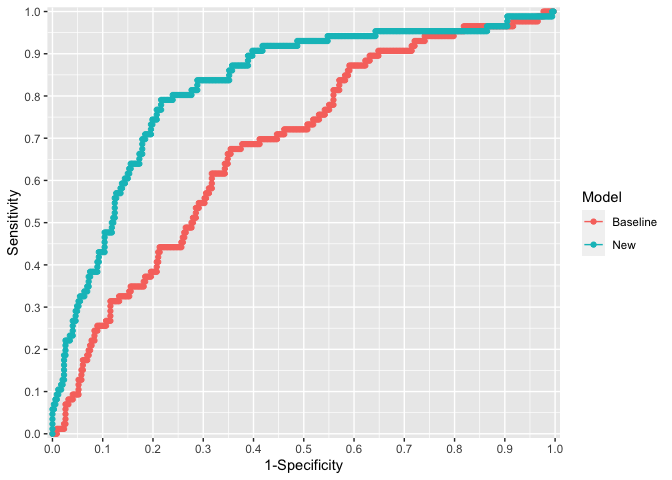
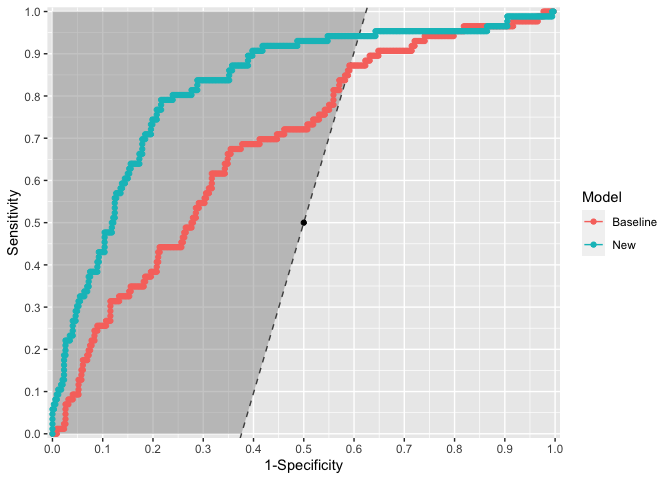
Version 1.1 update

diff --git a/README.md b/README.md
@@ -1,5 +1,5 @@
 John W Pickering
-7 March 2023
+19 April 2023
 
 <!-- README.md is generated from README.Rmd. Please edit that file -->
 
@@ -56,11 +56,18 @@ summary metrics. CI.classNRI also produces confusion matrices for those
 with and without the event of interest (separately). Bootstrapping is
 used to determine confidence intervals.
 
-Version 1.10 (current):  
+Version 1.10 :  
 \* addition of ROC plot. \* calibration plot now uses (best practice)
 continuous curves (the old format is now “ggcalibrate_original()”).  
 \* addition of precision recall curves. \* all plots can be for one or
 two models.
+
+Version 1.11 (current):  
+\* made NRI metrics for models optional (use NRI_return = TRUE) to get
+them. \* changed behaviour to that “x2 = NULL” is possible for
+CI.raplot. It has the effect of creating a model where every probability
+is 0.5.  
+\* bug fix.
 
 ## Example 1
 
@@ -68,12 +75,19 @@ This is a basic example for assessing the difference between two
 logistic regression models:
 
 ``` r
+library(dplyr)
 library(rap)
 ## basic example code
 
-baseline_risk <- data_risk$baseline    # or the baseline glm model itself
-new_risk <- data_risk$new              # or the new glm model itself
-outcome <- data_risk$outcome
+#### First make sure that data used has no missing values
+df <- data_risk %>% 
+  filter(!is.na(baseline))%>% 
+  filter(!is.na(new))%>% 
+  filter(!is.na(outcome))
+
+baseline_risk <- df$baseline    # or the baseline glm model itself
+new_risk <- df$new              # or the new glm model itself
+outcome <- df$outcome
 
 assessment <- CI.raplot(x1 = baseline_risk, x2 = new_risk, y = outcome,
                         n.boot = 20, dp = 2) # Note the default is 1000 bootstraps (n.boot = 1000).  This can take quite some time to run, so when testing I use a smaller number of bootstraps.  
@@ -99,24 +113,6 @@ assessment <- CI.raplot(x1 = baseline_risk, x2 = new_risk, y = outcome,
 #> 
 #> $Prevalence
 #> [1] 0.1986143
-#> 
-#> $NRI_up_event
-#> [1] 20
-#> 
-#> $NRI_up_nonevent
-#> [1] 19
-#> 
-#> $NRI_down_event
-#> [1] 13
-#> 
-#> $NRI_down_nonevent
-#> [1] 79
-#> 
-#> $NRI_event
-#> [1] 0.08139535
-#> 
-#> $NRI_nonevent
-#> [1] 0.1729107
 #> 
 #> $IDI_event
 #> [1] 0.1363479
@@ -156,20 +152,25 @@ assessment <- CI.raplot(x1 = baseline_risk, x2 = new_risk, y = outcome,
 
 ## bootstrap derived metrics with confidence intervals  
 (assessment$Summary_metrics)
-#> # A tibble: 22 × 2
-#>    metric            statistics                  
-#>    <chr>             <chr>                       
-#>  1 n                 432 (CI: 427.9 to 440.52)   
-#>  2 n_event           88.5 (CI: 71.22 to 97.57)   
-#>  3 n_non_event       345.5 (CI: 333.42 to 361.15)
-#>  4 Prevalence        0.2 (CI: 0.16 to 0.23)      
-#>  5 NRI_up_event      19 (CI: 10.8 to 30.72)      
-#>  6 NRI_up_nonevent   19.5 (CI: 11.95 to 27.57)   
-#>  7 NRI_down_event    11 (CI: 6.48 to 18.1)       
-#>  8 NRI_down_nonevent 69.5 (CI: 51.9 to 101.07)   
-#>  9 NRI_event         0.09 (CI: 0 to 0.23)        
-#> 10 NRI_nonevent      0.15 (CI: 0.08 to 0.22)     
-#> # … with 12 more rows
+#> # A tibble: 16 × 2
+#>    metric         statistics                
+#>    <chr>          <chr>                     
+#>  1 n              433 (CI: 433 to 433)      
+#>  2 n_event        85 (CI: 72.38 to 104.62)  
+#>  3 n_non_event    348 (CI: 328.38 to 360.62)
+#>  4 Prevalence     0.2 (CI: 0.17 to 0.24)    
+#>  5 IDI_event      0.14 (CI: 0.11 to 0.18)   
+#>  6 IDI_nonevent   0.03 (CI: 0.02 to 0.05)   
+#>  7 IP_baseline    0.19 (CI: 0.18 to 0.2)    
+#>  8 IS_baseline    0.25 (CI: 0.24 to 0.27)   
+#>  9 IP_new         0.15 (CI: 0.13 to 0.17)   
+#> 10 IS_new         0.39 (CI: 0.36 to 0.44)   
+#> 11 Brier_baseline 0.15 (CI: 0.13 to 0.18)   
+#> 12 Brier_new      0.13 (CI: 0.1 to 0.16)    
+#> 13 Brier_skill    16.64 (CI: 9.98 to 26.78) 
+#> 14 AUC_baseline   0.68 (CI: 0.62 to 0.72)   
+#> 15 AUC_new        0.82 (CI: 0.76 to 0.86)   
+#> 16 AUC_difference 0.14 (CI: 0.1 to 0.2)
 ```
 
 ## Graphical assessments
@@ -195,6 +196,15 @@ ggcalibrate(x1 = baseline_risk, x2 = new_risk, y = outcome)
 
 <img src="man/figures/README-ggcalibrate-1.png" width="100%" />
 
+### The original calibration curve
+
+``` r
+ggcalibrate_original(x1 = baseline_risk, x2 = new_risk, y = outcome,  cut_type = "interval")
+#> $g
+```
+
+<img src="man/figures/README-ggcalibrate_original-1.png" width="100%" />
+
 ### The decision curve
 
 ``` r
@@ -214,7 +224,7 @@ ggprerec(x1 = baseline_risk, x2 = new_risk, y = outcome)
 ### The roc plot
 
 ``` r
-ggroc(x1 = baseline_risk, x2 = new_risk, y = outcome)
+ggroc(x1 = baseline_risk, x2 = new_risk, y = outcome, carrington_line = TRUE)
 ```
 
 <img src="man/figures/README-ggroc-1.png" width="100%" />
@@ -305,16 +315,16 @@ class_assessment <- CI.classNRI(c1 = baseline_class, c2 = new_class, y = outcome
 ## bootstrap derived metrics with confidence intervals  
 (class_assessment$Summary_metrics)
 #> # A tibble: 10 × 2
-#>    metric            statistics                 
-#>    <chr>             <chr>                      
-#>  1 n                 444 (CI: 444 to 444)       
-#>  2 n_event           62.5 (CI: 51.38 to 75.1)   
-#>  3 n_non_event       381.5 (CI: 368.9 to 392.62)
-#>  4 Prevalence        0.14 (CI: 0.12 to 0.17)    
-#>  5 NRI_up_event      22 (CI: 14.48 to 31.57)    
-#>  6 NRI_up_nonevent   94.5 (CI: 78.8 to 103.1)   
-#>  7 NRI_down_event    5 (CI: 1.48 to 8)          
-#>  8 NRI_down_nonevent 73 (CI: 59.42 to 83.62)    
-#>  9 NRI_event         0.27 (CI: 0.16 to 0.42)    
-#> 10 NRI_nonevent      -0.05 (CI: -0.1 to -0.01)
+#>    metric            statistics                  
+#>    <chr>             <chr>                       
+#>  1 n                 444 (CI: 444 to 444)        
+#>  2 n_event           63.5 (CI: 50.42 to 73.57)   
+#>  3 n_non_event       380.5 (CI: 370.42 to 393.58)
+#>  4 Prevalence        0.14 (CI: 0.11 to 0.17)     
+#>  5 NRI_up_event      22 (CI: 16 to 28)           
+#>  6 NRI_up_nonevent   93.5 (CI: 76.28 to 110.15)  
+#>  7 NRI_down_event    4 (CI: 2 to 11)             
+#>  8 NRI_down_nonevent 69 (CI: 59.38 to 84)        
+#>  9 NRI_event         0.28 (CI: 0.17 to 0.39)     
+#> 10 NRI_nonevent      -0.06 (CI: -0.12 to 0)
 ```
